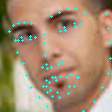
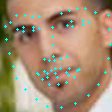
updated 2022.06.30

diff --git a/source/face_landmark/68pts/train_server3.py b/source/face_landmark/68pts/train_server3.py
@@ -102,8 +102,8 @@ def build_dataset(txt_file, is_train):
 
 
 if __name__ == "__main__":
-    train_dir = '/home/ubuntu/Datasets/WFLW/train_data_68pts/list.txt'
-    test_dir = '/home/ubuntu/Datasets/WFLW/test_data_68pts/list.txt'
+    train_dir = '/home/ubuntu/Datasets/TOTAL_FACE/train_data_68pts/list.txt'
+    test_dir = '/home/ubuntu/Datasets/TOTAL_FACE/test_data_68pts/list.txt'
     save_dir = "/home/ubuntu/Models/face_landmark_68pts3"
 
     batch_size = 2048
@@ -123,10 +123,10 @@ if __name__ == "__main__":
 
     optimizer = tf.keras.optimizers.Adam()
     cdr = tf.keras.optimizers.schedules.CosineDecayRestarts(initial_learning_rate=lr,
-                                                            first_decay_steps=1000,
+                                                            first_decay_steps=300,
                                                             t_mul=2.0,
                                                             m_mul=0.9,
-                                                            alpha=0.001)
+                                                            alpha=0.00001)
     
     callback = [DisplayCallback(),
                 tf.keras.callbacks.LearningRateScheduler(cdr),

diff --git a/source/face_landmark/68pts/train_server.py b/source/face_landmark/68pts/train_server.py
@@ -123,7 +123,7 @@ if __name__ == "__main__":
         os.makedirs(save_dir)
     
     optimizer = tf.keras.optimizers.Adam()
-    cosine_decay = tf.keras.optimizers.schedules.CosineDecay(initial_learning_rate=lr, decay_steps=1000, alpha=0.001)
+    cosine_decay = tf.keras.optimizers.schedules.CosineDecay(initial_learning_rate=lr, decay_steps=300, alpha=0.00001)
     
     callback = [DisplayCallback(),
                 tf.keras.callbacks.LearningRateScheduler(cosine_decay),
